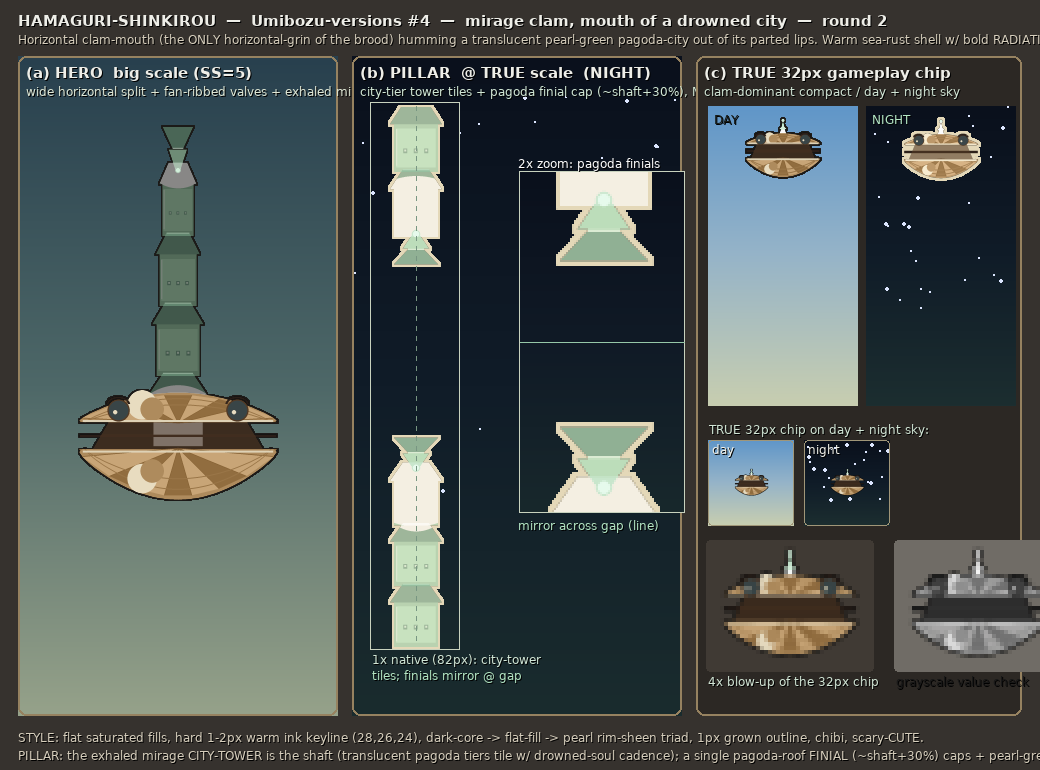
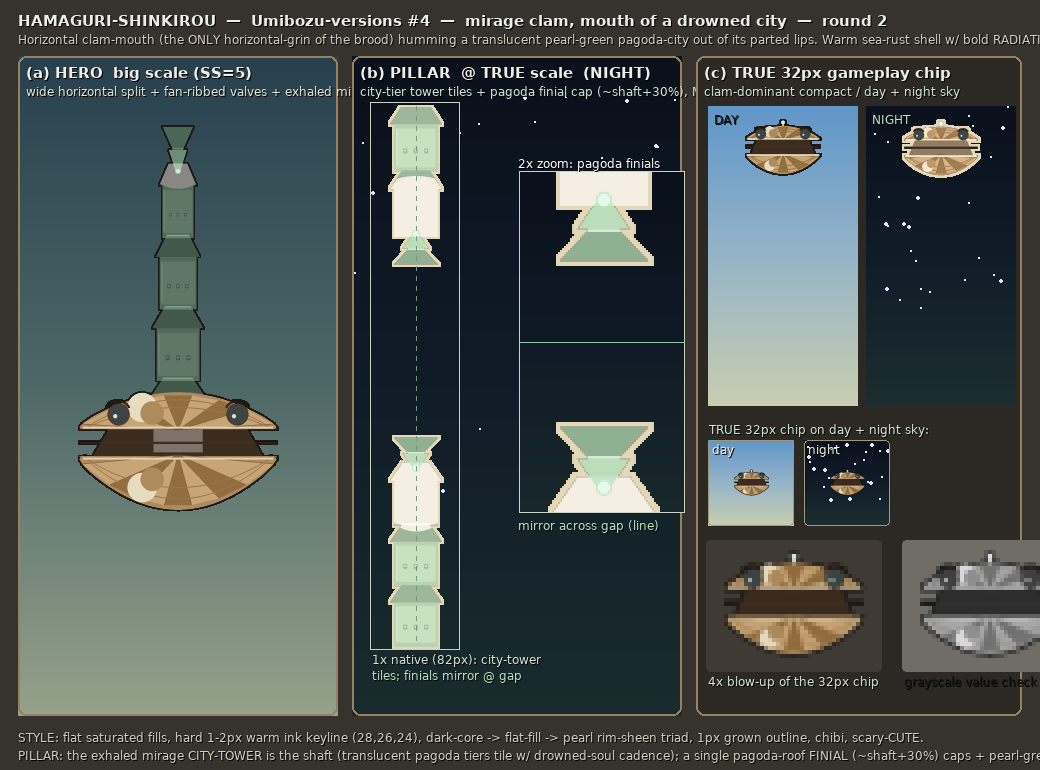
skybit broods: Mokoi complete 5/5 (Wandjina ship-ready); Umibozu r2 progress

diff --git a/docs/skybit_devil/batch2/umibozu_versions/tehom/render_tehom.py b/docs/skybit_devil/batch2/umibozu_versions/tehom/render_tehom.py
@@ -255,11 +255,11 @@ def _egg(surf, cx, cy, rx, ry, ss, *, night=False, tell=False):
     pygame.draw.lines(surf, GREEN_HOT, False, lower, max(1, int(1.1 * ss)))
     # The upper crown crack stays a thin sour hairline (doesn't compete).
     pygame.draw.lines(surf, GREEN_DK, False, seam[:2], max(1, int(1.4 * ss)))
-    # A couple of hairline branch cracks off the main seam (shell stress).
+    # A couple of hairline branch cracks off the DOWNWARD seam (shell stress).
     for (bx, by), (ex, ey) in (
-        (crack_pts[1], (cx + rx * 0.40, cy + ry * 0.04)),
-        (crack_pts[2], (cx - rx * 0.42, cy + ry * 0.30)),
-        (crack_pts[3], (cx + rx * 0.40, cy + ry * 0.58)),
+        (crack_pts[2], (cx - rx * 0.44, cy + ry * 0.36)),
+        (crack_pts[3], (cx + rx * 0.42, cy + ry * 0.56)),
+        (crack_pts[4], (cx - rx * 0.34, cy + ry * 0.78)),
     ):
         pygame.draw.line(surf, SHELL_DEEP, (int(bx), int(by)), (int(ex), int(ey)),
                          max(2, int(2.2 * ss)))
@@ -310,11 +310,16 @@ def _egg(surf, cx, cy, rx, ry, ss, *, night=False, tell=False):
     pygame.draw.lines(surf, rim, False, rim_pts, max(2, int(2.4 * ss)))
 
     if tell:
-        # Baked low-res tell for the 32px read: a bolder green crack stroke + a
-        # fatter green eye-blob so the creature read survives the downscale.
-        pygame.draw.lines(surf, GREEN, False, seam, max(2, int(3.0 * ss)))
-        pygame.draw.circle(surf, GREEN_HOT, (int(eye_x), int(eye_y)),
-                           max(2, int(eye_r * 0.55)))
+        # Baked low-res tell for the 32px read: bolder DOWNWARD green leak + a
+        # fatter green iris, then the dark slit RE-STAMPED on top so the curious
+        # slit-eye charm focal survives the downscale (AD directive 5) instead of
+        # washing to a green dot.
+        pygame.draw.lines(surf, GREEN, False, lower, max(2, int(3.2 * ss)))
+        pygame.draw.circle(surf, GREEN, (int(eye_x), int(eye_y)),
+                           max(2, int(eye_r * 0.66)))
+        pygame.draw.ellipse(surf, INK,
+                            (int(eye_x - slit_w * 0.6), int(eye_y - eye_r * 0.74),
+                             int(slit_w * 1.2), int(eye_r * 1.48)))
 
 
 def build_tehom(scale=1.0, ss=5, *, night=False, compact=False):

diff --git a/docs/skybit_devil/batch2/umibozu_versions/chochin_anko/render_chochin_anko.py b/docs/skybit_devil/batch2/umibozu_versions/chochin_anko/render_chochin_anko.py
@@ -129,6 +129,14 @@ def _esca(surf, cx, cy, r, ss, *, night=False, glow_mult=1.0, epic=False):
     gl = make_glow_surface(max(1, gr), LURE, alpha_center=200 if night else 140,
                            falloff=2.8)
     surf.blit(gl, (int(cx - gr), int(cy - gr)), special_flags=pygame.BLEND_ADD)
+    if epic:
+        # Hero gets a tight inner WHITE bloom (small radius so it never bleeds over
+        # the body) to make the pip feel genuinely incandescent at big scale.
+        gr2 = int(r * 1.3 * glow_mult)
+        gl2 = make_glow_surface(max(1, gr2), LURE_CORE, alpha_center=200,
+                                falloff=3.0)
+        surf.blit(gl2, (int(cx - gr2), int(cy - gr2)),
+                  special_flags=pygame.BLEND_ADD)
     pygame.draw.circle(surf, LURE_DK, (int(cx), int(cy)), max(1, int(r)))
     pygame.draw.circle(surf, LURE, (int(cx), int(cy)), max(1, int(r * 0.86)))
     # A true hot-WHITE core blooming up out of the peach body so the lure reads

diff --git a/docs/skybit_devil/batch2/mokoi_versions/wandjina/critique_round2.md b/docs/skybit_devil/batch2/mokoi_versions/wandjina/critique_round2.md
@@ -1,0 +1,77 @@
+# Wandjina — white-clay radial rain-ancestor — ROUND 2 critique
+
+VERDICT: SHIP-READY
+
+Round 2 clears the bar. Both round-1 blockers are genuinely fixed, the KIND
+and the flat-graphic / inverted-value house style are intact, and the icon
+reads at true 32px on day AND night skies. This is the cleanest survivor of
+the brood and it is ready to mature/integrate. One optional polish nudge below,
+for the single remaining GD pass if it is taken — it is NOT a ship blocker.
+
+---
+
+## Round-1 directive verification (all landed)
+
+1. **32px eye blowout — FIXED.** Each eye now carries a pale pipeclay
+   catch-ring + ochre iris + dark pupil that survives the downscale. At true
+   32px (day, night, neutral) the eyes read as WATCHING EYES, not empty
+   sockets. The grayscale tell confirms the ring-with-pupil structure holds
+   under full desaturation. This was the #1 thing keeping it off ship and it
+   is solved.
+2. **Eyes shrunk + wider-set — FIXED.** Smaller, wider-spaced eyes recover the
+   "face" over "skull/owl" read and leave room for the catch-ring. Good call.
+3. **Halo trim — FIXED.** 16 -> 12 spokes with bold long/short alternation.
+   The halo now reads as a crisp graphic STARBURST at 32px — hard-edged,
+   clearly a burst, not a fuzzy spiky blob. Confirmed it is NOT a soft
+   glow-ring and NOT a Raijin drum-ring; rays radiate from the band. The
+   white disk now has more focal breathing room.
+4. **Disk<->board seam — FIXED.** The neck/board junction is clean; ray-tips
+   no longer clip the transition. The disk sits cleanly on the board.
+5. **Dot-fields tuned — DONE.** A hint of the pipeclay/ochre rain-dot rows now
+   survives to 64px on brow/cheeks; pillar rain-dot rhythm reads as rain on a
+   painted board.
+
+## Confirmations requested
+
+- **(1) Eyes read as eyes at true 32px day+night:** YES. Both swatches hold the
+  catch-ring + pupil. No hollow-socket read.
+- **(2) Halo = crisp graphic STARBURST that reads small:** YES. Bold 12-spoke
+  alternating burst, hard edges, no glow/drum-ring drift.
+- **(3) Calm mouthless stare = scary-cute:** YES. The watchful, silent,
+  haloed face is characterful and likable, not generic skull. Flat-graphic
+  grammar intact (no 3D triad); pipeclay-white light-dominant inversion holds;
+  pillar mirrors clean with rain-dot + ray-hatch bands; ember cap-rim only;
+  clearly distinct from source Mokoi and the rest of the roster.
+
+---
+
+## Ranking — strongest / weakest
+
+- **Strongest:** the eye fix. The character is fully alive at gameplay scale
+  now — the calm watching stare is the whole hook and it survives to 32px on
+  both biomes. KIND clarity and value inversion remain best-in-brood.
+- **Weakest (minor):** on the NIGHT swatch the two pale catch-rings read a
+  hair brighter/wider than on day, edging very slightly owlish against the
+  dark ground. It is within the scary-cute range, not a defect.
+
+## Ruling on the owlish-night flag (the open question)
+
+OPTIONAL, NOT BLOCKING. The eye-not-socket fix is load-bearing and fully
+solved; do not undo it. If the one remaining GD pass is spent, nudge the
+catch-ring ONE step smaller (or drop its value ~one step) so the night read
+calms toward the day read's serenity — but only if it does NOT push the eye
+back toward a hollow socket at 32px night. If there is any risk of regressing
+the socket read, leave it exactly as is and ship. The brighter night catch is
+the safer failure mode of the two.
+
+## KEEP (do not touch)
+
+- The eye structure (catch-ring + ochre iris + dark pupil) — this is the win.
+- The 12-spoke long/short starburst — crisp and graphic at size.
+- Pipeclay-white light dominant, charcoal keyline, brick-ochre rays.
+- Head-dominant 32px read; bottom-rooted mirrored rain-board; cap-confined
+  ember; clean disk<->board seam.
+
+## References
+- Eye-catch-light-survives-thumbnail benchmark still holds: Rayman Adventures /
+  Angry Birds boss icons keep a single catch-light so eyes stay alive small.

diff --git a/docs/skybit_devil/batch2/mokoi_versions/baiame/critique_round2.md b/docs/skybit_devil/batch2/mokoi_versions/baiame/critique_round2.md
@@ -1,0 +1,62 @@
+# AD CRITIQUE — Baiame-Allfather (mokoi-lineage, wide-arc authority) — ROUND 2
+
+VERDICT: SHIP-READY
+
+All four R1 fixes landed cleanly and the three confirmation asks check out
+against the committed image. This is a locked, shippable monument.
+
+---
+
+## R1 FIX VERIFICATION
+
+1. **Pillar de-weighting (RE-SPEC A) — LANDED.** Cap is now a slim on-axis
+   dome (~shaft +30%) with the three dot-finials dropped DEEP into the gap
+   below the arc. The heaviest pipeclay mass now falls INTO the gap, not
+   perched above the shaft. Reads decisively bottom-weighted; clean on-axis
+   mirror; ember stays cap-confined. No longer top-heavy. RESOLVED.
+2. **Protect the face at 32px (FIX 2) — LANDED.** Ring-eyes hold an open ink
+   pupil inside the ochre ring (no merge to solid discs); bar-mouth held
+   taller. Survives at the true-32px day/night/neutral chips. RESOLVED.
+3. **Thin the ochre / value pin (RE-SPEC B / FIX 3) — LANDED.** Brow band +
+   mouth bar trimmed; the 32px chip and the grayscale "dark block" both read
+   as an unambiguous DARK charcoal authority block with yellow as accent only.
+   Inverse value structure vs Mimi is locked — no collision at 32px. RESOLVED.
+4. **Mitts → arm-arcs (FIX 4) — LANDED.** Hands tied into the arcs with
+   charcoal wrists; the "reaching to scoop you" gesture is now unmistakable at
+   hero scale. RESOLVED.
+
+## GD CONFIRMATION ASKS
+
+1. **Pillar NOT top-heavy / clean mirror — CONFIRMED.** Mass below axis; the
+   shaft +30% dome + dropped finials mirror cleanly on-axis.
+2. **Dark charcoal block w/ yellow accent only; won't collide with Mimi at
+   32px — CONFIRMED.** Value-inversion holds at chip scale and in grayscale.
+3. **Big ring-eyes + bar-mouth = scary-cute monument at true 32px day+night;
+   flat-graphic grammar intact — CONFIRMED.** Face carries the chip read at
+   1x; flat fills, hard keyline, pattern-density detail, no 3D triad.
+
+## HORN-TIP DROP RULING
+
+ACCEPTABLE — and the correct call. The horn-tips do not survive at 32px, but
+the "crowned" read rests on the crown silhouette + brow band, exactly the
+deliberate-drop option offered in R1 FIX 5. At hero scale the dot-tipped horns
+read; at chip scale forcing them would only add ochre noise around the eyes.
+Deliberate, not accidental. No further action.
+
+## KEEP (do not regress)
+
+- Charcoal-dominant value pin + thin ochre accent — the whole sibling-safety
+  story rests on it.
+- Open ink pupils + ≥2px bar-mouth at 32px — the entire chip read.
+- Dropped-into-gap finial mass — the fix that made the pillar read as
+  authority rather than top-heavy.
+- Hero-only wide double-arc reaching arms with tied-in mitts.
+
+## NOTES (optional, NOT blocking ship)
+
+- None that gate ship. If a free polish beat ever arises: on the DAY chip the
+  arm-arcs are absent (head-only chip), so the warm-area concern from R1 is now
+  fully neutralized — leave it.
+
+This clears the bar. Proceed to integrate Baiame at SS=6 → smoothscale, and
+fold it into the mokoi-versions showcase.
